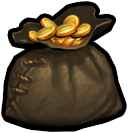
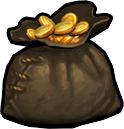
add option for ArenaStatsSummary text coloring, new card/pack images

diff --git a/Hearthstone Deck Tracker/Controls/Stats/Arena/ArenaRewardsSummary.xaml b/Hearthstone Deck Tracker/Controls/Stats/Arena/ArenaRewardsSummary.xaml
@@ -8,11 +8,11 @@
              d:DesignHeight="300" d:DesignWidth="800">
     <StackPanel Orientation="Horizontal">
         <StackPanel Margin="10" Width="120">
-            <StackPanel Orientation="Horizontal">
-                <Image Width="32" Height="32" Source="/HearthstoneDeckTracker;component/Resources/gold_2.png" RenderOptions.BitmapScalingMode="Fant"/>
-                <Label Content="Gold" FontSize="16"/>
+            <StackPanel Orientation="Horizontal" Height="48">
+                <Image Width="46" Height="46" Source="/HearthstoneDeckTracker;component/Resources/gold_2.png" RenderOptions.BitmapScalingMode="Fant"/>
+                <Label Content="Gold" FontSize="16" VerticalAlignment="Center"/>
             </StackPanel>
-            <StackPanel Margin="32,0,0,0">
+            <StackPanel Margin="32,10,0,0">
                 <StackPanel Orientation="Horizontal">
                     <TextBlock VerticalAlignment="Center" Text="Total: "/>
                     <TextBlock VerticalAlignment="Center" Text="{Binding Path=GoldTotal, Source={x:Static compiledStats:ArenaStats.Instance}, IsAsync=True}"/>
@@ -30,10 +30,10 @@
         <Rectangle Height="Auto" Width="1" Fill="{DynamicResource TextBrush}"/>
         <StackPanel Margin="10" Width="120">
             <StackPanel Orientation="Horizontal">
-                <Image Width="32" Height="32" Source="/HearthstoneDeckTracker;component/Resources/dust.png" RenderOptions.BitmapScalingMode="Fant"/>
-                <Label Content="Dust" FontSize="16"/>
+                <Image Width="48" Height="48" Source="/HearthstoneDeckTracker;component/Resources/dust.png" RenderOptions.BitmapScalingMode="Fant"/>
+                <Label Content="Dust" FontSize="16" VerticalAlignment="Center"/>
             </StackPanel>
-            <StackPanel Margin="32,0,0,0">
+            <StackPanel Margin="32,10,0,0">
             <StackPanel Orientation="Horizontal">
                 <TextBlock VerticalAlignment="Center" Text="Total: "/>
                 <TextBlock VerticalAlignment="Center" Text="{Binding Path=DustTotal, Source={x:Static compiledStats:ArenaStats.Instance}, IsAsync=True}"/>
@@ -47,10 +47,10 @@
         <Rectangle Height="Auto" Width="1" Fill="{DynamicResource TextBrush}"/>
         <StackPanel Margin="10" Width="260">
             <StackPanel Orientation="Horizontal">
-                <Image Width="32" Height="32" Source="/HearthstoneDeckTracker;component/Resources/pack.png" RenderOptions.BitmapScalingMode="Fant"/>
-                <Label Content="Packs" FontSize="16"/>
+                <Image Width="48" Height="48" Source="/HearthstoneDeckTracker;component/Resources/pack_stack.png" RenderOptions.BitmapScalingMode="Fant"/>
+                <Label Content="Packs" FontSize="16" VerticalAlignment="Center"/>
             </StackPanel>
-            <StackPanel Margin="32,0,0,0">
+            <StackPanel Margin="32,10,0,0">
                 <StackPanel Orientation="Horizontal">
                     <TextBlock VerticalAlignment="Center" Text="Total: "/>
                     <TextBlock VerticalAlignment="Center" Text="{Binding Path=PacksCountTotal, Source={x:Static compiledStats:ArenaStats.Instance}, IsAsync=True}"/>
@@ -76,10 +76,10 @@
         <Rectangle Height="Auto" Width="1" Fill="{DynamicResource TextBrush}"/>
         <StackPanel Margin="10" Width="120">
             <StackPanel Orientation="Horizontal">
-                <Image Width="32" Height="32" Source="/HearthstoneDeckTracker;component/Resources/cards.png" RenderOptions.BitmapScalingMode="Fant"/>
-                <Label Content="Cards" FontSize="16"/>
+                <Image Width="48" Height="48" Source="/HearthstoneDeckTracker;component/Resources/cards_2.png" RenderOptions.BitmapScalingMode="Fant"/>
+                <Label Content="Cards" FontSize="16" VerticalAlignment="Center"/>
             </StackPanel>
-            <StackPanel Margin="32,0,0,0">
+            <StackPanel Margin="32,10,0,0">
             <StackPanel Orientation="Horizontal">
                 <TextBlock VerticalAlignment="Center" Text="Total: "/>
                 <TextBlock VerticalAlignment="Center" Text="{Binding Path=CardCountTotal, Source={x:Static compiledStats:ArenaStats.Instance}, IsAsync=True}"/>

diff --git a/Hearthstone Deck Tracker/FlyoutControls/Options/Tracker/TrackerAppearance.xaml b/Hearthstone Deck Tracker/FlyoutControls/Options/Tracker/TrackerAppearance.xaml
@@ -58,6 +58,10 @@
                                                   VerticalAlignment="Top" Width="150"
                                                   SelectionChanged="ComboboxDeckLayout_SelectionChanged" />
                     </DockPanel>
+                    <CheckBox x:Name="CheckBoxArenaStatsTextColoring" Content="Red/green text color in stats summary"
+                                              HorizontalAlignment="Left" Margin="10,5,0,0"
+                                              VerticalAlignment="Top" Checked="CheckBoxArenaStatsTextColoring_Checked"
+                                              Unchecked="CheckBoxArenaStatsTextColoring_Unchecked"/>
                     <CheckBox x:Name="CheckboxDeckPickerCaps" Content="Use upper case deck names"
                                               HorizontalAlignment="Left" Margin="10,5,0,0"
                                               VerticalAlignment="Top" Checked="CheckboxDeckPickerCaps_Checked"

diff --git a/Hearthstone Deck Tracker/FlyoutControls/Options/Tracker/TrackerAppearance.xaml.cs b/Hearthstone Deck Tracker/FlyoutControls/Options/Tracker/TrackerAppearance.xaml.cs
@@ -8,6 +8,7 @@ using System.Windows;
 using System.Windows.Controls;
 using System.Windows.Media;
 using Hearthstone_Deck_Tracker.Enums;
+using Hearthstone_Deck_Tracker.Stats.CompiledStats;
 using Hearthstone_Deck_Tracker.Windows;
 using MahApps.Metro;
 
@@ -51,6 +52,7 @@ namespace Hearthstone_Deck_Tracker.FlyoutControls.Options.Tracker
 			ComboBoxIconSet.SelectedItem = Config.Instance.ClassIconStyle;
 			ComboBoxDeckLayout.SelectedItem = Config.Instance.DeckPickerItemLayout;
 			ComboBoxClassColors.SelectedItem = Config.Instance.ClassColorScheme;
+			CheckBoxArenaStatsTextColoring.IsChecked = Config.Instance.ArenaStatsTextColoring;
 
 			_initialized = true;
 		}
@@ -209,6 +211,24 @@ namespace Hearthstone_Deck_Tracker.FlyoutControls.Options.Tracker
 				return;
 			Config.Instance.ClassColorScheme = (ClassColorScheme)ComboBoxClassColors.SelectedItem;
 			Config.Save();
+		}
+
+		private void CheckBoxArenaStatsTextColoring_Checked(object sender, RoutedEventArgs e)
+		{
+			if(!_initialized)
+				return;
+			Config.Instance.ArenaStatsTextColoring = true;
+			Config.Save();
+			ArenaStats.Instance.UpdateArenaStatsHighlights();
+		}
+
+		private void CheckBoxArenaStatsTextColoring_Unchecked(object sender, RoutedEventArgs e)
+		{
+			if(!_initialized)
+				return;
+			Config.Instance.ArenaStatsTextColoring = false;
+			Config.Save();
+			ArenaStats.Instance.UpdateArenaStatsHighlights();
 		}
 	}
 }

diff --git a/Hearthstone Deck Tracker/Stats/CompiledStats/ClassStats.cs b/Hearthstone Deck Tracker/Stats/CompiledStats/ClassStats.cs
@@ -96,7 +96,7 @@ namespace Hearthstone_Deck_Tracker.Stats.CompiledStats
 		{
 			get
 			{
-				if(double.IsNaN(WinRate))
+				if(double.IsNaN(WinRate) || !Config.Instance.ArenaStatsTextColoring)
 					return new SolidColorBrush(Config.Instance.StatsInWindow ? Colors.Black : Colors.White);
 				return new SolidColorBrush(WinRate >= 0.5 ? Colors.Green : Colors.Red);
 			}
@@ -106,7 +106,7 @@ namespace Hearthstone_Deck_Tracker.Stats.CompiledStats
 		{
 			get
 			{
-				if(BestRun == null)
+				if(BestRun == null || !Config.Instance.ArenaStatsTextColoring)
 					return new SolidColorBrush(Config.Instance.StatsInWindow ? Colors.Black : Colors.White);
 				return new SolidColorBrush(BestRun.Wins >= 3 ? Colors.Green : Colors.Red);
 			}

diff --git a/Hearthstone Deck Tracker/Stats/CompiledStats/MatchupStats.cs b/Hearthstone Deck Tracker/Stats/CompiledStats/MatchupStats.cs
@@ -46,7 +46,7 @@ namespace Hearthstone_Deck_Tracker.Stats.CompiledStats
 		{
 			get
 			{
-				if(double.IsNaN(WinRate))
+				if(double.IsNaN(WinRate) || !Config.Instance.ArenaStatsTextColoring)
 					return new SolidColorBrush(Config.Instance.StatsInWindow ? Colors.Black : Colors.White);
 				return new SolidColorBrush(WinRate >= 0.5 ? Colors.Green : Colors.Red);
 			}

diff --git a/Hearthstone Deck Tracker/Config.cs b/Hearthstone Deck Tracker/Config.cs
@@ -53,6 +53,9 @@ namespace Hearthstone_Deck_Tracker
 
 		[DefaultValue(true)]
 		public bool ArenaStatsShowLegends = true;
+		
+		[DefaultValue(true)]
+		public bool ArenaStatsTextColoring = true;
 
 		[DefaultValue(true)]
 		public bool AskBeforeDiscardingGame = true;
